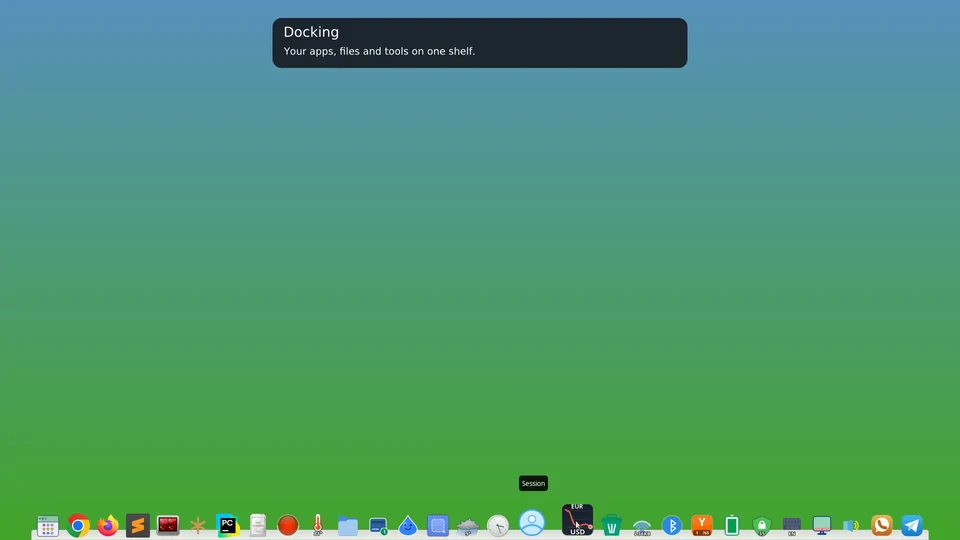
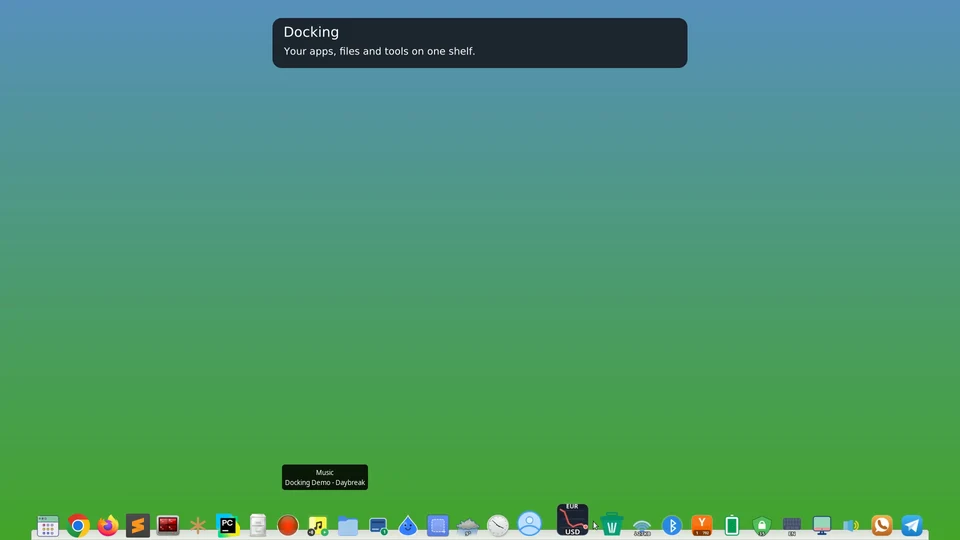
Show Music playback and add News in the Overview tour

Changed region(s): [[0.5312, 0.8593, 0.6562, 1.0], [0.2812, 0.8593, 0.4062, 0.9185], [0.3125, 0.9481, 0.3438, 1.0]]

diff --git a/tools/linux/tours/recorder.py b/tools/linux/tours/recorder.py
@@ -35,6 +35,7 @@ BAR_WIDTH, BAR_HEIGHT = 830, 100
 TOURS = ("overview", "applets", "preferences", "search")
 FOLDER_NAME = "Tour files"
 NOTES_FOLDER_NAME = "Tour notes"
+OVERVIEW_TRACKS = ("Daybreak", "Afterglow")
 OVERVIEW_WEATHER_CITIES = (
     {"city_display": "Paris, France", "lat": 48.8566, "lng": 2.3522},
     {"city_display": "Belo Horizonte, Brazil", "lat": -19.92, "lng": -43.94},
@@ -800,20 +801,55 @@ def overview_audio(directory: Path) -> Iterator[str]:
         subprocess.run(
             ["pactl", "set-sink-volume", "docking_tour", "50%"], env=env, check=True
         )
-        yield server
+        shutil.copyfile(
+            ROOT / "docking/assets/icons/applets/music.png", directory / "cover.png"
+        )
+        tracks = []
+        for title, frequency in zip(OVERVIEW_TRACKS, (440, 554), strict=True):
+            track = directory / f"{title}.flac"
+            # Leave time for live applets to load before the scene changes tracks.
+            ffmpeg(
+                "-f",
+                "lavfi",
+                "-i",
+                f"sine=frequency={frequency}:sample_rate=16000:duration=600",
+                "-metadata",
+                f"title={title}",
+                "-metadata",
+                "artist=Docking Demo",
+                str(track),
+            )
+            tracks.append(str(track))
+        with process(
+            [
+                "vlc",
+                "--intf=dummy",
+                "--extraintf=dbus",
+                "--aout=pulse",
+                "--ignore-config",
+                "--no-one-instance",
+                *tracks,
+            ],
+            directory / "vlc.log",
+            env,
+        ):
+            yield server
 
 
 def session(
     directory: Path, tours: list[str], *, available_controls: bool = False
 ) -> None:
+    from docking.platform.applications.implementations.unix.catalog import (
+        UnixApplicationCatalogBackend,
+    )
     from tools.linux.tours.scenes import (
         OVERVIEW_APPLETS,
-        OVERVIEW_ITEMS,
         applet_chapters,
         applets,
         input_then_hover,
         live_hover,
         overview,
+        overview_items,
         preferences,
         prepare_live_applets,
         search,
@@ -942,7 +978,12 @@ def session(
                                     },
                                 },
                             }
-                            entries = [item or folder for item in OVERVIEW_ITEMS]
+                            catalog = UnixApplicationCatalogBackend().discover(
+                                handle_epoch=0
+                            )
+                            entries = overview_items(
+                                folder, {app.desktop_id for app in catalog.applications}
+                            )
                         else:
                             entries = [
                                 applet_desktop_id("applications"),
@@ -976,6 +1017,10 @@ def session(
                         ):
                             if tour == "overview":
                                 prepare_live_applets(desktop, OVERVIEW_APPLETS)
+                                desktop.scene_name = "Preparing music playback"
+                                live_hover(
+                                    desktop, "music", contains=OVERVIEW_TRACKS[0]
+                                )
                                 desktop.scene_name = "Preparing both weather forecasts"
                                 live_hover(desktop, "weather", contains="Paris")
                                 input_then_hover(
@@ -1120,7 +1165,7 @@ def main() -> int:
         "ffmpeg",
         "ffprobe",
         *(("caja",) if {"overview", "applets", "search"}.intersection(tours) else ()),
-        *(("gsettings", "pulseaudio", "pactl") if "overview" in tours else ()),
+        *(("gsettings", "pulseaudio", "pactl", "vlc") if "overview" in tours else ()),
         *(("setxkbmap",) if {"overview", "search"}.intersection(tours) else ()),
         *(("gifski",) if args.gif else ()),
     ):

diff --git a/tools/linux/tours/scenes.py b/tools/linux/tours/scenes.py
@@ -18,7 +18,7 @@ from docking.applets.identity import (
     applet_desktop_id,
 )
 from tests.visual.backends.x11.run import process, wait_for
-from tools.linux.tours.recorder import FOLDER_NAME, NOTES_FOLDER_NAME
+from tools.linux.tours.recorder import FOLDER_NAME, NOTES_FOLDER_NAME, OVERVIEW_TRACKS
 
 if TYPE_CHECKING:
     from tools.linux.tours.recorder import Desktop
@@ -26,7 +26,7 @@ if TYPE_CHECKING:
 OVERVIEW_APPLETS = (
     "applications",
     "systemmonitor",
-    "thermals",
+    "music",
     "screenshot",
     "weather",
     "clock",
@@ -50,7 +50,7 @@ OVERVIEW_ITEMS = (
     "pycharm.desktop",
     "caja.desktop",
     applet_desktop_id("systemmonitor"),
-    applet_desktop_id("thermals"),
+    applet_desktop_id("music"),
     None,  # The demo folder stack.
     applet_desktop_id("devices"),
     applet_desktop_id("hydration"),
@@ -156,6 +156,16 @@ def applet_chapters() -> list[tuple[str, list[AppletMeta]]]:
                 key=lambda meta: meta.name.casefold(),
             )
         )
+    ]
+
+
+def overview_items(folder: str, installed_ids: set[str]) -> list[str]:
+    return [
+        item or folder
+        for item in OVERVIEW_ITEMS
+        if item not in OVERVIEW_LAUNCHERS
+        or item == "caja.desktop"
+        or item in installed_ids
     ]
 
 
@@ -302,8 +312,23 @@ def overview_shelf(desktop: Desktop, folder: str) -> None:
         live_hover(desktop, "systemmonitor")
         desktop.hold()
 
-    with desktop.scene("Thermals", "Hover to see current temperatures and fan speed."):
-        live_hover(desktop, "thermals")
+    with desktop.scene(
+        "Music", "Control Spotify, VLC, Rhythmbox, and other MPRIS players."
+    ):
+        live_hover(desktop, "music", contains=OVERVIEW_TRACKS[0])
+        desktop.hold()
+        desktop.point(applet_desktop_id("music"), 1)
+        desktop.hold(0.6)
+        applet_menu(desktop, "music")
+        desktop.find("Play")
+        desktop.hold()
+        desktop.click("Play")
+        desktop.hold(0.6)
+        applet_menu(desktop, "music")
+        desktop.find("Pause")
+        desktop.hold(0.7)
+        desktop.click("Next")
+        live_hover(desktop, "music", contains=OVERVIEW_TRACKS[1])
         desktop.hold()
 
     with desktop.scene("Folder stacks", "Open a pinned folder and browse its files."):
@@ -446,15 +471,15 @@ def overview(desktop: Desktop, folder: str) -> None:
         web_login(desktop, "telegram", "Telegram", recenter=False)
 
     with desktop.scene(
-        "Add Music", "Choose Add Applet, then System & Power and Music."
+        "Add News", "Choose Add Applet, then Information and Environment."
     ):
         desktop.shelf_menu(applet_desktop_id("telegram"))
         desktop.move(*desktop.find("Add Applet").center)
-        desktop.move(*desktop.find(AppletCategory.SYSTEM.value).center)
+        desktop.move(*desktop.find(AppletCategory.INFORMATION.value).center)
         desktop.hold(0.6)
-        desktop.click("Music")
+        desktop.click("News")
         desktop.dismiss(recenter=False)
-        desktop.item(applet_desktop_id("music"))
+        desktop.item(applet_desktop_id("news"))
         desktop.hold()
 
     with desktop.scene(

diff --git a/tests/tools/test_tours.py b/tests/tools/test_tours.py
@@ -24,6 +24,7 @@ from tools.linux.tours.scenes import (
     OVERVIEW_APPLETS,
     OVERVIEW_ITEMS,
     applet_chapters,
+    overview_items,
     verify_status,
 )
 
@@ -156,11 +157,30 @@ def test_overview_opens_on_the_hero_shelf_with_both_messaging_applets():
     )
     assert OVERVIEW_ITEMS[-3] == applet_desktop_id("volume")
     assert "eom.desktop" not in OVERVIEW_ITEMS
-    assert applet_desktop_id("music") not in OVERVIEW_ITEMS
+    assert OVERVIEW_ITEMS[8:10] == tuple(
+        map(applet_desktop_id, ("systemmonitor", "music"))
+    )
+    assert applet_desktop_id("thermals") not in OVERVIEW_ITEMS
+    assert applet_desktop_id("news") not in OVERVIEW_ITEMS
     catalog = get_applet_catalog()
     for item in OVERVIEW_ITEMS:
         if item and (applet := parse_applet_id(item)):
             assert applet in catalog
+
+
+def test_overview_keeps_only_installed_optional_launchers():
+    folder = "file:///tmp/Tour%20files"
+
+    items = overview_items(folder, {"terminator.desktop"})
+
+    assert [item for item in items if item.endswith(".desktop")] == [
+        "terminator.desktop",
+        "caja.desktop",
+    ]
+    assert [
+        item for item in items if item != folder and not item.endswith(".desktop")
+    ] == [item for item in OVERVIEW_ITEMS if item and parse_applet_id(item)]
+    assert items.count(folder) == 1
 
 
 def test_search_chapter_enables_the_search_dialog(tmp_path, monkeypatch):

diff --git a/CHANGELOG.md b/CHANGELOG.md
@@ -12,9 +12,9 @@ Docking versions are listed in descending version order. Dates are in UTC.
 - Added a tool to regenerate Docking's Overview, Applets, Preferences, and Search tour
   videos. The overview follows the website demo shelf from left to right, adds
   WhatsApp and Telegram, and shows the certificate status for `www.eduar.do`.
-  It demonstrates System Monitor, Thermals, Keyboard Layout, and two forecast
+  It demonstrates System Monitor, Music, Keyboard Layout, and two forecast
   cities, and shows mouse buttons and the scroll wheel as they are used.
-  It demonstrates Volume controls and adds Music from the dock menu.
+  It demonstrates Volume controls and adds News from the dock menu.
   The Preferences tour shows the Ctrl+right-click dock menu shortcut. The Search
   tour demonstrates its global shortcut from the desktop, app lookup, world
   time, arithmetic, and unit conversions.

diff --git a/tools/README.md b/tools/README.md
@@ -25,5 +25,7 @@ with a desktop image, or select `applets`, `preferences`, or `search` with
 
 The recorder needs Xvfb, xauth, D-Bus, Marco, FFmpeg, and the usual Docking
 runtime dependencies. For the Overview, install Caja, the X11 keyboard tools,
-and `pulseaudio` with `pactl`. The recorder starts its own virtual audio output.
+VLC with D-Bus support, and `pulseaudio` with `pactl`. The recorder plays two
+generated demo tracks on its own virtual audio output. Other application
+launchers appear on the Overview shelf when installed.
 Install [Gifski](https://gif.ski/) to use `--gif`.
